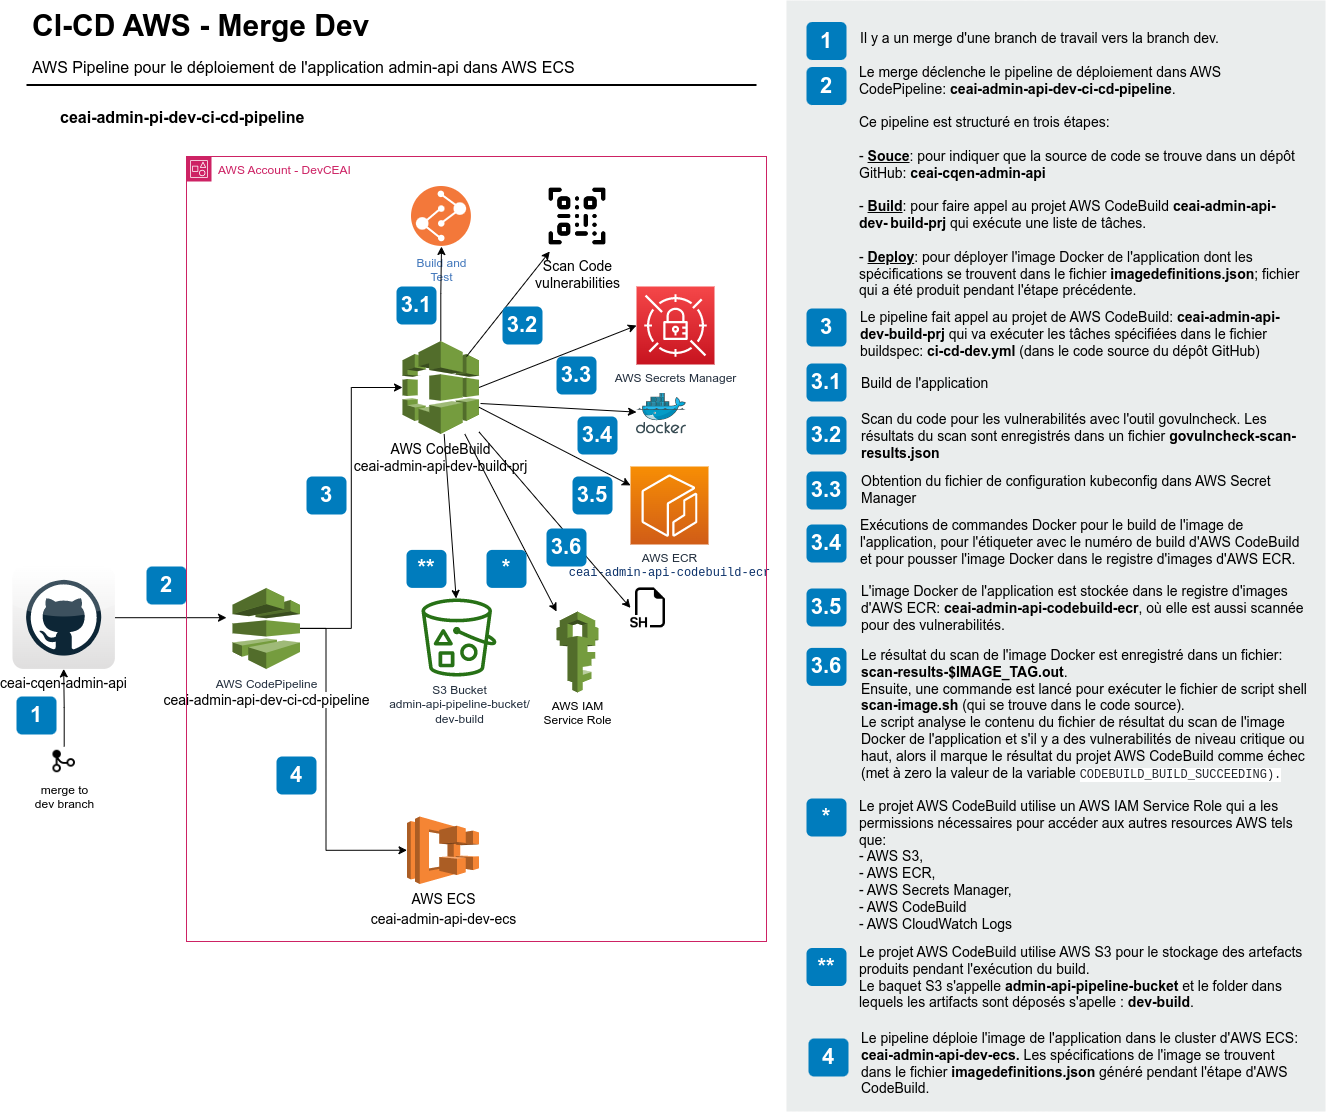
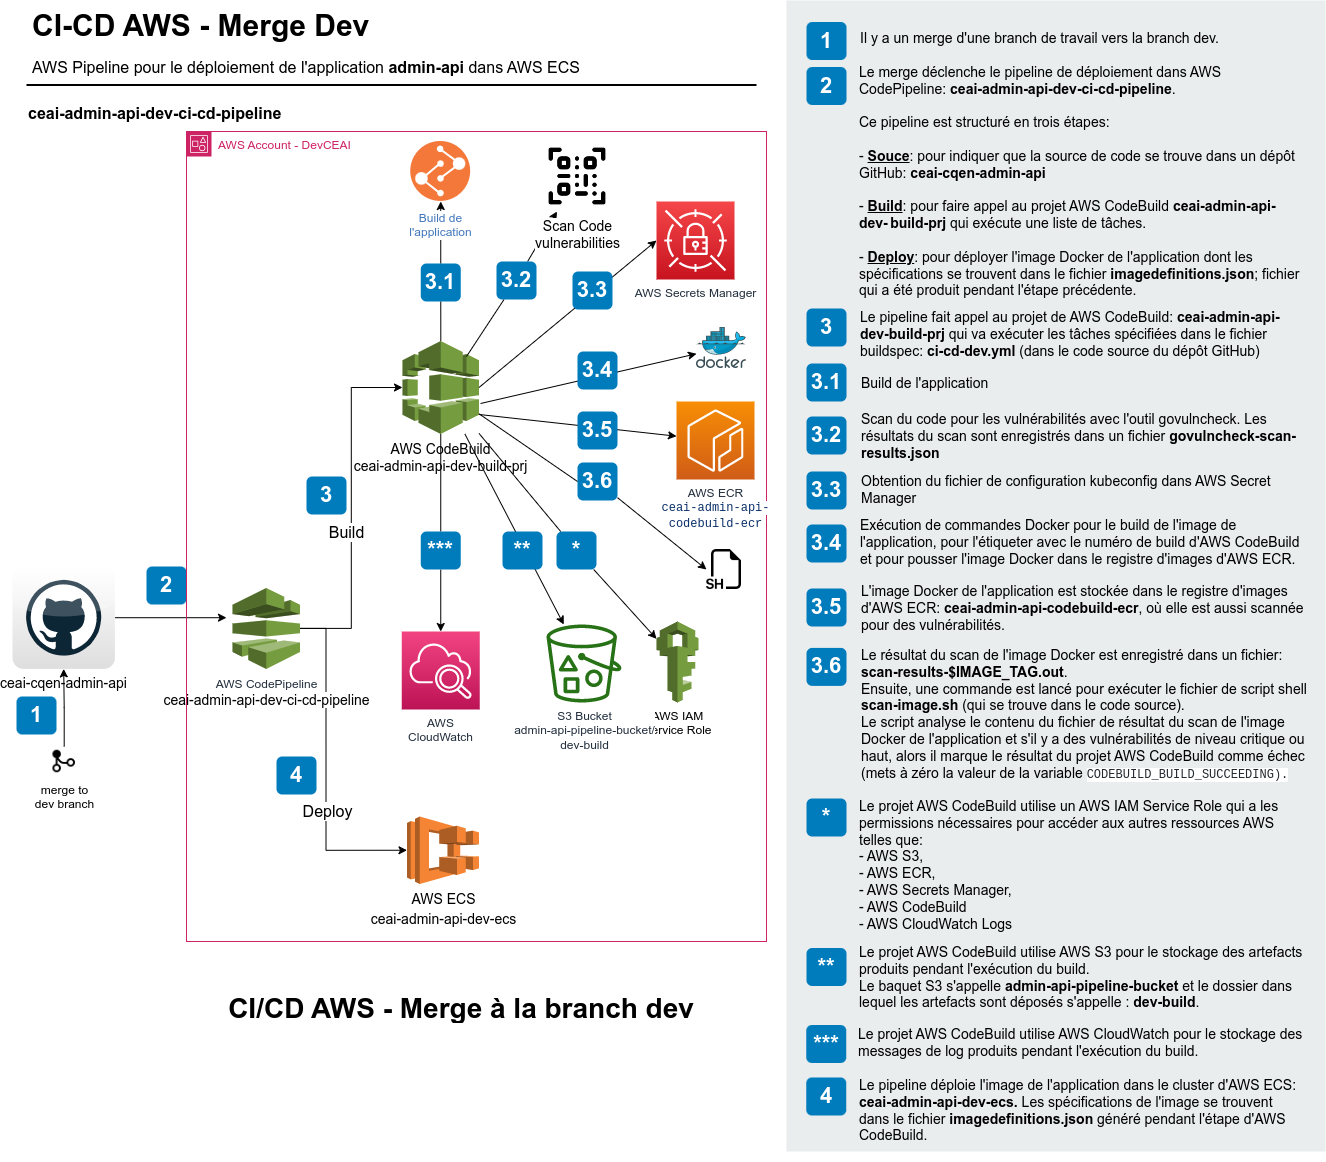
diagramme CI/CD AWS

Changed region(s): [[0.0, 0.0305, 0.9894, 1.0], [0.0309, 0.0, 0.5566, 0.183], [0.1546, 0.7013, 0.5256, 0.8843]]

diff --git a/.aws/workflows/README.md b/.aws/workflows/README.md
@@ -1,51 +1,9 @@
-# CI-CD AWS
+# Intégration Continue (CI) et Livraison Continue (CD) avec AWS
 
-![CI AWS - Pull Request](images/AWS-Pipelines-ceai-cqen-admin-api-pull-request.png)
+## CI avec AWS CodeBuild pour un Pull Request
+
+![CI AWS - Pull Request](images/AWS-Pipelines-ceai-cqen-admin-api-AWS-CI-Pull-Request.png)
+
+## CI/CD avec AWS CodePipeline et AWS CodeBuild pour la branche de développement
 
 ![CI-CD AWS - Merge à la branch dev](images/AWS-Pipelines-ceai-cqen-admin-api-AWS-CI-CD-Merge-Dev.png)
-
-# AWS CodeBuild
-
-## Projets Build
-
-### 1. Pull Request: "ceai-admin-api-pull-request-build-prj"
-  Ce projet a été créé pour exécuter le build lors d'une création ou un mis à jour d'un Pull Request.
-  Les tâches réalisées par ce projet sont détaillées à continuation:
-
-- Prend le code du dépôt GitHub, branch du Pull Request.
-    - Il travaille avec le fichier de buildspec dans le code de source: [ci-pr.yml](ci-pr.yml)
-- Build de l'application (go command)
-- Scan de l'application avec l'outil de scan pour les projets go: govulncheck
-- Dépose le résultat du scan dans un fichier nommé "**govulncheck-scan-results.json**"
-    - Il utilise le AWS S3 bucket: "**admin-api-pipeline-bucket**"
-    - folder: "**pull-request-build**"
-
-### 2. Dev: "ceai-admin-api-dev-build-prj"
-  Ce projet a été créé pour exécuter le pipeline de déploiement: "**ceai-admin-api-dev-ci-cd-pipeline**".
-  Les tâches réalisées par ce projet sont détaillées à continuation:
-
-  - Prend le code du dépôt GitHub, branch **dev**
-    - Il travaille avec le fichier de buildspec dans la source de code: [ci-cd-dev.yml](ci-cd-dev.yml)
-  - Build de l'application (go command)
-  - Scan de l'application avec l'outil de scan pour les projets go: govulncheck
-  - Dépose le résultat du scan dans un fichier nommé "**govulncheck-scan-results.json**"
-    - Il utilise le AWS S3 bucket: **admin-api-pipeline-bucket**
-      - folder: **dev-build**
-  - Build l'image docker de l'application
-  - Tag l'image avec le build number du AWS CodeBuild
-  - Push l'image docker dans AWS ECR: "**ceai-admin-api-codebuild-ecr**"
-  - Prend le résultat du scan de l'image docker d'AWS ECR et l'écrit dans un fichier: "**scan-results-$IMAGE_TAG.out**"
-  - Produit le fichier "**imagedefinitions.json**" avec les informations de l'image à déployer dans AWS ECS
-
-# AWS CodePipeline
-
-## Pipeline: "ceai-admin-api-dev-ci-cd-pipeline"
-  Ce pipeline déploie une nouvelle version de l'application dans AWS ECS. 
-  Les tâches réalisées par ce pipeline sont détaillées à continuation:
-
-  - Prends le code du dépôt GitHub, branch **dev**
-  - Appel le projet de build: "**ceai-admin-api-dev-build-prj**" pour obtenir l'image Docker de l'application
-  - Déploie l'image spécifiée dans le fichier "**imagedefinitions.json**" (dans le bucket S3), dans AWS ECS
-    - AWS ECS: 
-      - cluster: **ceai-admin-api-dev-ecs**
-      - service: **ceai-admin-api-dev-app-service**
